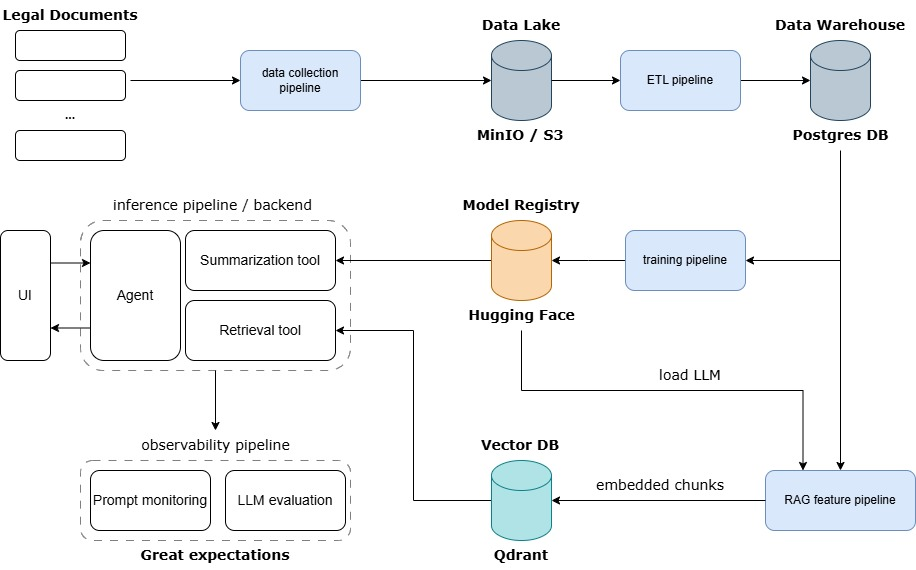
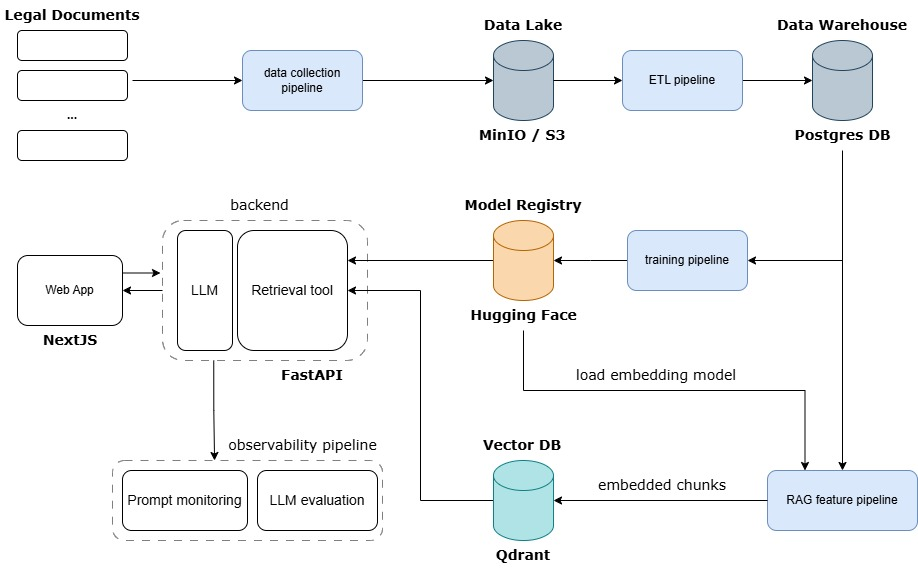
[FRO] Clickable links for laws in LLM response

diff --git a/services/frontend/src/styles/Chat.module.css b/services/frontend/src/styles/Chat.module.css
@@ -17,59 +17,84 @@
   border-radius: 8px;
 }
   
-  .message {
-    margin-bottom: 15px;
-    display: flex;
-  }
-  
-  .message.user {
-    justify-content: flex-end;
-  }
-  
-  .message.bot {
-    justify-content: flex-start;
-  }
-  
-  .content {
-    max-width: 70%;
-    padding: 10px 15px;
-    border-radius: 15px;
-    word-break: break-word;
-  }
-  
-  .message.user .content {
-    background-color: #007bff;
-    color: white;
-  }
-  
-  .message.bot .content {
-    background-color: #e9ecef;
-    color: black;
-  }
-  
-  .inputForm {
-    display: flex;
-    gap: 10px;
-  }
-  
-  .inputForm input {
-    flex: 1;
-    padding: 10px;
-    border: 1px solid #ddd;
-    border-radius: 4px;
-    font-size: 16px;
-  }
-  
-  .inputForm button {
-    padding: 10px 20px;
-    background-color: #007bff;
-    color: white;
-    border: none;
-    border-radius: 4px;
-    cursor: pointer;
-  }
-  
-  .inputForm button:disabled {
-    background-color: #6c757d;
-    cursor: not-allowed;
-  }
+.message {
+  margin-bottom: 15px;
+  display: flex;
+}
+
+.message.user {
+  justify-content: flex-end;
+}
+
+.message.bot {
+  justify-content: flex-start;
+}
+
+.content {
+  max-width: 70%;
+  padding: 10px 15px;
+  border-radius: 15px;
+  word-break: break-word;
+}
+
+.message.user .content {
+  background-color: #007bff;
+  color: white;
+}
+
+.message.bot .content {
+  background-color: #e9ecef;
+  color: black;
+}
+
+.inputForm {
+  display: flex;
+  gap: 10px;
+}
+
+.inputForm input {
+  flex: 1;
+  padding: 10px;
+  border: 1px solid #ddd;
+  border-radius: 4px;
+  font-size: 16px;
+}
+
+.inputForm button {
+  padding: 10px 20px;
+  background-color: #007bff;
+  color: white;
+  border: none;
+  border-radius: 4px;
+  cursor: pointer;
+}
+
+.inputForm button:disabled {
+  background-color: #6c757d;
+  cursor: not-allowed;
+}
+
+.content {
+  max-width: 70%;
+  padding: 10px 15px;
+  border-radius: 15px;
+  word-break: break-word;
+}
+
+.content a {
+  color: #007bff;
+  text-decoration: underline;
+}
+
+.content a:hover {
+  color: #0056b3;
+}
+
+.message.user .content a {
+  color: #cce5ff;
+  text-decoration: underline;
+}
+
+.message.user .content a:hover {
+  color: #99caff;
+}

diff --git a/services/frontend/src/components/Chat.jsx b/services/frontend/src/components/Chat.jsx
@@ -1,4 +1,5 @@
 import { useState, useRef, useEffect } from 'react';
+import ReactMarkdown from 'react-markdown';
 import styles from '../styles/Chat.module.css';
 
 const Chat = () => {
@@ -56,7 +57,20 @@ const Chat = () => {
         {messages.map((msg, index) => (
           <div key={index} className={`${styles.message} ${msg.isBot ? styles.bot : styles.user}`}>
             <div className={styles.content}>
-              {msg.content}
+              <ReactMarkdown
+                components={{
+                  a: ({ node, ...props }) => (
+                    <a 
+                      {...props} 
+                      target="_blank" 
+                      rel="noopener noreferrer"
+                      className={styles.link}
+                    />
+                  )
+                }}
+              >
+                {msg.content}
+              </ReactMarkdown>
             </div>
           </div>
         ))}

diff --git a/services/legal_search_api/src/main.py b/services/legal_search_api/src/main.py
@@ -63,7 +63,10 @@ def format_prompt(question: str, laws: List[LawResult]) -> List[dict]:
     return [
         {
             "role": "system",
-            "content": "Răspunde la întrebarea juridică folosind exclusiv informațiile din textele de lege oferite. Dacă informațiile sunt insuficiente, răspunde că nu poți oferi un răspuns sigur bazat pe legislația actuală."
+            "content": "Răspunde la întrebarea juridică folosind exclusiv informațiile din textele de lege oferite. " + \
+            "Dacă informațiile sunt insuficiente, răspunde că nu poți oferi un răspuns sigur bazat pe legislația actuală." + \
+            "În răspunsul tău, include link-uri către textele de lege relevante pentru a permite utilizatorului să verifice informațiile. " + \
+            "Răspunsul tău trebuie să fie concis și la obiect. "
         },
         {
             "role": "user",

diff --git a/README.md b/README.md
@@ -12,13 +12,14 @@ This repository contains a system for collecting, processing, and querying Roman
 ```bash
 make start-persistent-services  # minio, postgres, qdrant
 ```
-2. Run on-demand components:
+2. Run on-demand services:
+- collect data and save to S3 compatible bucket
+- extract laws and save to postgres db
+- generate embeddings for the laws and save them to qdrant db:
 ```bash
-make collect-data  # Collect data to MinIO bucket
-make process-data  # Save legal articles to Postgres
-make generate-embeddings  # Query Postgres, embed and save laws to Qdrant
+make run-on-demand-services
 ```
-3. Start FastAPI backend and React frontend:
+3. Start FastAPI backend and NextJS frontend:
 ```bash
 make start-backend
 make start-frontend
@@ -35,4 +36,5 @@ make docker-nuke
 ```
 
 ## Web App
-![webapp](static/webapp.jpg)
+After starting the backend API and the frontend, you can access the frontend at `localhost:3000`. The LLM responds based on retrieved laws and displays links that point directly to the specific law.
+![webapp](static/webapp.png)
